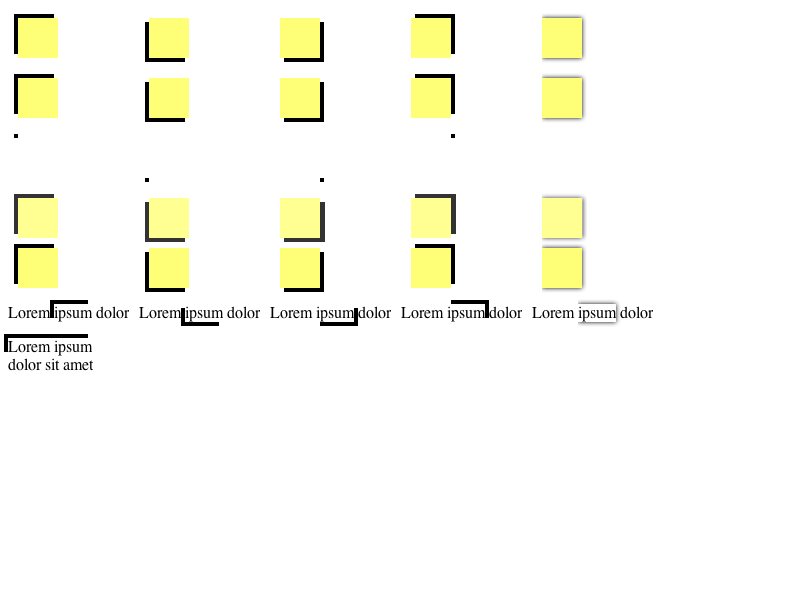
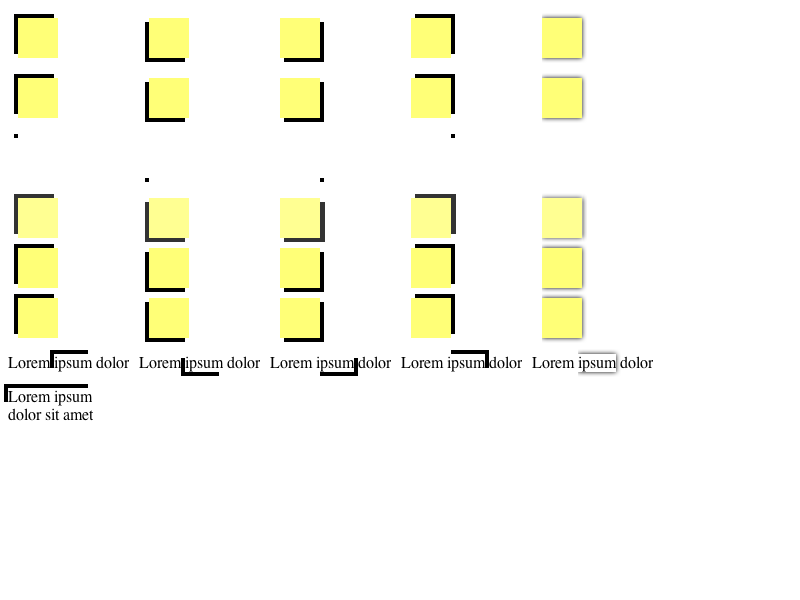
LayoutTests:
Reviewed by Hyatt.

        - updated tests for http://bugs.webkit.org/show_bug.cgi?id=13876
          Box-Shadow disappears if shadow doesn't fit in the window size

        * fast/repaint/box-shadow-h-expected.checksum:
        * fast/repaint/box-shadow-h-expected.png:
        * fast/repaint/box-shadow-h-expected.txt:
        * fast/repaint/box-shadow-h.html:
        * fast/repaint/box-shadow-v-expected.checksum:
        * fast/repaint/box-shadow-v-expected.png:
        * fast/repaint/box-shadow-v-expected.txt:
        * fast/repaint/box-shadow-v.html:

WebCore:

        Reviewed by Hyatt.

        - fix http://bugs.webkit.org/show_bug.cgi?id=13876
          Box-Shadow disappears if shadow doesn't fit in the window size

        Tests: fast/repaint/box-shadow-h.html
               fast/repaint/box-shadow-v.html

        * rendering/RenderTable.cpp:
        (WebCore::RenderTable::layout):

Identifier: 18208@main
git-svn-id: https://svn.webkit.org/repository/webkit/trunk@21807 268f45cc-cd09-0410-ab3c-d52691b4dbfc

Changed region(s): [[0.0, 0.48, 0.8125, 0.72]]

diff --git a/LayoutTests/fast/repaint/box-shadow-h.html b/LayoutTests/fast/repaint/box-shadow-h.html
@@ -34,6 +34,8 @@
     
         <div class="square shadowTL" style="overflow: auto;"></div>
     
+        <table class="square shadowTL"></table>
+
         <p>
             Lorem <span class="shadowTL">ipsum</span> dolor
         </p>
@@ -59,6 +61,8 @@
     
         <div class="square shadowBL" style="overflow: auto;"></div>
     
+        <table class="square shadowBL"></table>
+
         <p>
             Lorem <span class="shadowBL">ipsum</span> dolor
         </p>
@@ -79,6 +83,8 @@
     
         <div class="square shadowBR" style="overflow: auto;"></div>
     
+        <table class="square shadowBR"></table>
+
         <p>
             Lorem <span class="shadowBR">ipsum</span> dolor
         </p>
@@ -99,6 +105,8 @@
     
         <div class="square shadowTR" style="overflow: auto;"></div>
     
+        <table class="square shadowTR"></table>
+
         <p>
             Lorem <span class="shadowTR">ipsum</span> dolor
         </p>
@@ -119,6 +127,8 @@
     
         <div class="square shadowB" style="overflow: auto;"></div>
     
+        <table class="square shadowB"></table>
+
         <p>
             Lorem <span class="shadowB">ipsum</span> dolor
         </p>

diff --git a/LayoutTests/fast/repaint/box-shadow-v.html b/LayoutTests/fast/repaint/box-shadow-v.html
@@ -32,6 +32,8 @@
     
         <div class="square shadowTL" style="overflow: auto;"></div>
     
+        <table class="square shadowTL"></table>
+
         <p>
             Lorem <span class="shadowTL">ipsum</span> dolor
         </p>
@@ -57,6 +59,8 @@
     
         <div class="square shadowBL" style="overflow: auto;"></div>
     
+        <table class="square shadowBL"></table>
+
         <p>
             Lorem <span class="shadowBL">ipsum</span> dolor
         </p>
@@ -77,6 +81,8 @@
     
         <div class="square shadowBR" style="overflow: auto;"></div>
     
+        <table class="square shadowBR"></table>
+
         <p>
             Lorem <span class="shadowBR">ipsum</span> dolor
         </p>
@@ -97,6 +103,8 @@
     
         <div class="square shadowTR" style="overflow: auto;"></div>
     
+        <table class="square shadowTR"></table>
+
         <p>
             Lorem <span class="shadowTR">ipsum</span> dolor
         </p>
@@ -117,6 +125,8 @@
     
         <div class="square shadowB" style="overflow: auto;"></div>
     
+        <table class="square shadowB"></table>
+
         <p>
             Lorem <span class="shadowB">ipsum</span> dolor
         </p>

diff --git a/WebCore/rendering/RenderTable.cpp b/WebCore/rendering/RenderTable.cpp
@@ -411,6 +411,15 @@ void RenderTable::layout()
     // FIXME: Only pass true if width or height changed.
     layoutPositionedObjects(true);
 
+    if (!hasOverflowClip()) {
+        if (ShadowData* boxShadow = style()->boxShadow()) {
+            m_overflowLeft = min(m_overflowLeft, boxShadow->x - boxShadow->blur);
+            m_overflowWidth = max(m_overflowWidth, m_width + boxShadow->x + boxShadow->blur);
+            m_overflowTop = min(m_overflowTop, boxShadow->y - boxShadow->blur);
+            m_overflowHeight = max(m_overflowHeight, m_height + boxShadow->y + boxShadow->blur);
+        }
+    }
+
     view()->popLayoutState();
 
     bool didFullRepaint = true;
